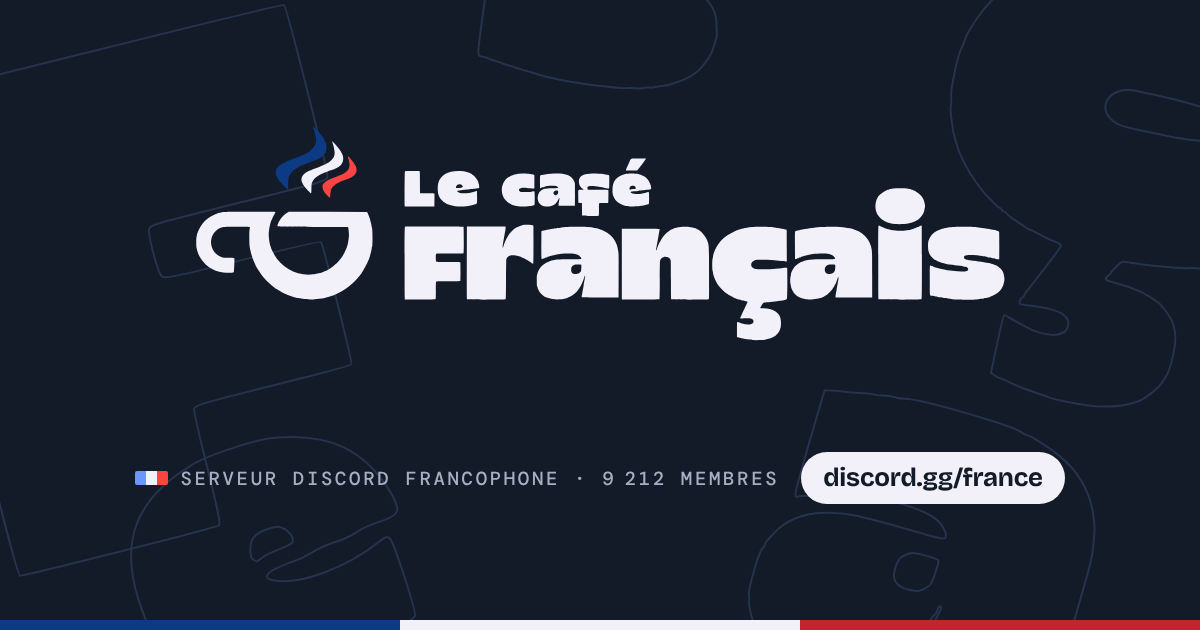
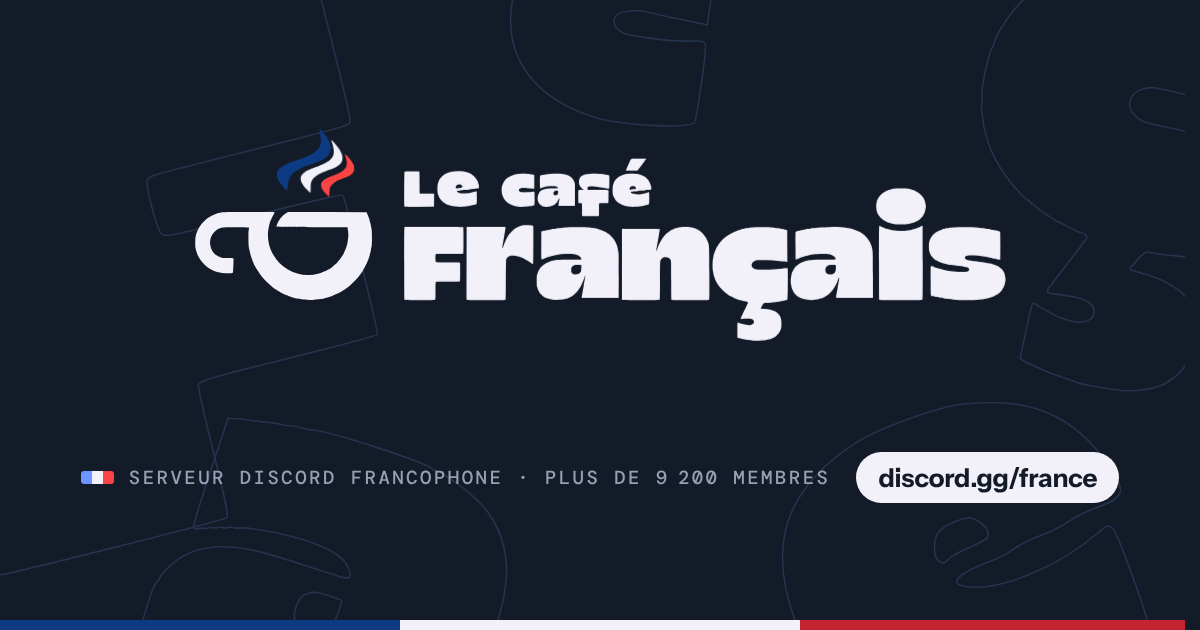
Nombre de membres à jour, sur la page et dans l'aperçu du lien
La page demande le nombre exact de membres à Discord à chaque visite.
Chaque jour, GitHub Actions relève le nombre et met à jour index.html,
la description du lien partagé et l'image apercu.png (arrondies à la
centaine : « plus de 9 200 membres »).

Claude-Session: https://claude.ai/code/session_01RCZVv2zyASMHv7btGDSPhF

diff --git a/outils/membres.js b/outils/membres.js
@@ -1,0 +1,136 @@
+#!/usr/bin/env node
+/* Met à jour le nombre de membres du serveur là où il est écrit en dur :
+   - index.html : le compteur de l'ouverture et la phrase de fin de page (nombre exact),
+     la description du lien partagé (arrondi à la centaine : « plus de 9 200 membres ») ;
+   - apercu.png : l'image affichée quand le lien du site est partagé (même arrondi).
+   Lancé chaque jour par GitHub Actions (.github/workflows/membres.yml). Sur la page, le nombre exact est
+   aussi demandé à Discord à chaque visite : les valeurs écrites ici servent quand Discord ne répond pas.
+
+   Usage : node outils/membres.js           relève le nombre sur Discord
+           node outils/membres.js 9251      utilise ce nombre
+           node outils/membres.js --image   régénère aussi l'image, même si l'arrondi n'a pas changé
+   L'image est dessinée par Chrome (Playwright, ou playwright-core avec Google Chrome installé). */
+const fs = require('fs');
+const path = require('path');
+
+const RACINE = path.join(__dirname, '..');
+const PAGE = path.join(RACINE, 'index.html');
+const IMAGE = path.join(RACINE, 'apercu.png');
+const INVITATION = 'france';
+
+const grouper = (n, sep) => String(n).replace(/\B(?=(\d{3})+(?!\d))/g, sep);
+const arrondi = (n) => Math.floor(n / 100) * 100;
+const attendre = (ms) => new Promise((r) => setTimeout(r, ms));
+
+async function relever() {
+  const url = `https://discord.com/api/v10/invites/${INVITATION}?with_counts=true`;
+  for (let essai = 0; essai < 3; essai++) {
+    const res = await fetch(url, { headers: { 'User-Agent': 'cafe-fr.com (membres)', Accept: 'application/json' } });
+    if (res.status === 429) { // trop d'appels : Discord dit combien de temps attendre
+      const corps = await res.json().catch(() => ({}));
+      await attendre(Math.min(Number(corps.retry_after) || 2, 30) * 1000 + 500);
+      continue;
+    }
+    if (!res.ok) throw new Error(`Discord a répondu ${res.status}`);
+    const n = Number((await res.json()).approximate_member_count);
+    if (!Number.isInteger(n) || n < 1000) throw new Error(`nombre de membres invalide : ${n}`);
+    return n;
+  }
+  throw new Error('Discord limite les appels, réessayer plus tard');
+}
+
+// Remplace un passage qui doit apparaître exactement une fois dans la page
+function remplacer(html, motif, rempl, nom) {
+  const trouves = html.match(new RegExp(motif.source, 'g')) || [];
+  if (trouves.length !== 1) throw new Error(`${nom} : ${trouves.length} occurrence(s) dans index.html au lieu d'une`);
+  return html.replace(motif, rempl);
+}
+
+function majPage(n) {
+  const avant = fs.readFileSync(PAGE, 'utf8');
+  const ancien = avant.match(/Rejoins plus de ([\d\u00a0]+) membres/);
+  let html = remplacer(avant, /(id="nb-membres" data-valeur=")\d+(">)[\d&#;]+(<\/b>)/, `$1${n}$2${grouper(n, '&#8239;')}$3`, 'compteur de l\'ouverture');
+  html = remplacer(html, /(<span id="nb-final">)[\d&#;]+(<\/span>)/, `$1${grouper(n, '&#8239;')}$2`, 'phrase de fin');
+  html = remplacer(html, /Rejoins [^"]*? membres sur discord\.gg\/france\./, `Rejoins plus de ${grouper(arrondi(n), '\u00a0')} membres sur discord.gg/france.`, 'description du lien partagé');
+  if (html !== avant) fs.writeFileSync(PAGE, html);
+  return { modifiee: html !== avant, arrondiChange: !ancien || Number(ancien[1].replace(/\D/g, '')) !== arrondi(n) };
+}
+
+async function navigateur() {
+  let pw;
+  try { pw = require('playwright'); } catch (e) { pw = require('playwright-core'); }
+  if (process.env.CHROME) return pw.chromium.launch({ executablePath: process.env.CHROME });
+  try { return await pw.chromium.launch(); } catch (e) { return pw.chromium.launch({ channel: 'chrome' }); }
+}
+
+// Dessine apercu.png (1200 × 630) avec le logo de la page, les lettres du fond et le nombre de membres
+async function dessinerImage(n) {
+  const nav = await navigateur();
+  try {
+    const page = await nav.newPage({ viewport: { width: 1200, height: 630 } });
+    // Seules les polices sont chargées : sans GSAP, le logo reste immobile
+    await page.route(/^https?:\/\/(?!fonts\.(googleapis|gstatic)\.com)/, (r) => r.abort());
+    await page.goto('file://' + PAGE);
+    await page.evaluate(async (texte) => {
+      const lettre = (id, cx, cy, h, r) => {
+        const el = document.getElementById(id);
+        const b = el.getBBox();
+        const s = h / b.height;
+        return `<path d="${el.getAttribute('d')}" transform="translate(${cx} ${cy}) rotate(${r}) scale(${s}) translate(${-(b.x + b.width / 2)} ${-(b.y + b.height / 2)})"/>`;
+      };
+      const scene = document.createElement('div');
+      scene.id = 'apercu';
+      scene.innerHTML = `
+        <svg class="ap-fond" viewBox="0 0 1200 630">${[
+          lettre('p-F', 150, 250, 560, -14), lettre('p-cc', 1110, 170, 430, 12), lettre('p-a2', 330, 590, 300, 18),
+          lettre('p-e2', 960, 560, 300, -20), lettre('p-c', 610, 20, 200, 8),
+        ].join('')}</svg>
+        <div class="ap-logo"></div>
+        <div class="ap-bas"><p><span class="ap-drapeau"><i></i><i></i><i></i></span>${texte}</p><span class="ap-lien">discord.gg/france</span></div>
+        <div class="ap-barre"><i></i><i></i><i></i></div>`;
+      scene.querySelector('.ap-logo').append(document.getElementById('logo'));
+      const style = document.createElement('style');
+      style.textContent = `
+        html, body { overflow: hidden !important; }
+        body > *:not(#apercu) { visibility: hidden !important; }
+        #apercu { position: fixed; inset: 0; width: 1200px; height: 630px; z-index: 2147483647; background: #131a28; overflow: hidden; }
+        .ap-fond { position: absolute; inset: 0; width: 100%; height: 100%; fill: none; stroke: #26334d; stroke-width: 1.6px; }
+        .ap-fond path { vector-effect: non-scaling-stroke; }
+        .ap-logo { position: absolute; left: 0; right: 0; top: var(--haut, 118px); display: flex; justify-content: center; }
+        .ap-logo .logo { width: var(--largeur, 822px); transform: translateX(var(--dx, 0px)); }
+        .ap-bas { position: absolute; left: 0; right: 0; top: 452px; display: flex; align-items: center; justify-content: center; gap: 26px; }
+        .ap-bas p { margin: 0; display: flex; align-items: center; gap: 15px; font: 500 19px/1 "DM Mono", monospace; letter-spacing: .13em; text-transform: uppercase; color: #969fb3; }
+        .ap-drapeau { display: flex; width: 33px; height: 13px; border-radius: 3px; overflow: hidden; }
+        .ap-drapeau i { flex: 1; } .ap-drapeau i:nth-child(1) { background: #6b95ff; } .ap-drapeau i:nth-child(2) { background: #f2f1f9; } .ap-drapeau i:nth-child(3) { background: #f94443; }
+        .ap-lien { display: flex; align-items: center; height: 51px; padding: 0 22px; border-radius: 26px; background: #f2f1f9; color: #131a28; font: 700 26px/1 "Instrument Sans", sans-serif; letter-spacing: -.01em; }
+        .ap-barre { position: absolute; left: 0; right: 0; bottom: 0; height: 10px; display: flex; }
+        .ap-barre i { flex: 1; } .ap-barre i:nth-child(1) { background: #0c3b83; } .ap-barre i:nth-child(2) { background: #f2f1f9; } .ap-barre i:nth-child(3) { background: #c3242f; }`;
+      document.head.append(style);
+      document.body.append(scene);
+      await document.fonts.ready;
+    }, `Serveur Discord francophone · plus de ${grouper(arrondi(n), '\u202f')} membres`);
+    await page.waitForTimeout(300);
+    await page.screenshot({ path: IMAGE });
+  } finally {
+    await nav.close();
+  }
+}
+
+(async () => {
+  const arg = process.argv.slice(2);
+  const donne = arg.find((a) => /^\d+$/.test(a));
+  let n;
+  try {
+    n = donne ? Number(donne) : await relever();
+  } catch (e) {
+    // Discord injoignable : on garde les valeurs actuelles, sans faire échouer la tâche quotidienne
+    console.log(`Nombre de membres non relevé (${e.message}) : rien n'est modifié.`);
+    return;
+  }
+  const { modifiee, arrondiChange } = majPage(n);
+  console.log(`${n} membres (aperçu : plus de ${arrondi(n)}). index.html ${modifiee ? 'mis à jour' : 'déjà à jour'}.`);
+  if (arrondiChange || arg.includes('--image')) {
+    await dessinerImage(n);
+    console.log('apercu.png régénérée.');
+  }
+})().catch((e) => { console.error(e.message); process.exit(1); });

diff --git a/index.html b/index.html
@@ -9,7 +9,7 @@
 <meta property="og:site_name" content="Le Café Français">
 <meta property="og:locale" content="fr_FR">
 <meta property="og:title" content="Le Café Français">
-<meta property="og:description" content="Serveur Discord communautaire francophone : discussions, jeux, salons vocaux et événements. Rejoins les 9 212 membres sur discord.gg/france.">
+<meta property="og:description" content="Serveur Discord communautaire francophone : discussions, jeux, salons vocaux et événements. Rejoins plus de 9 200 membres sur discord.gg/france.">
 <meta property="og:url" content="https://cafe-fr.com/">
 <meta property="og:image" content="https://cafe-fr.com/apercu.png">
 <meta property="og:image:width" content="1200">
@@ -1200,7 +1200,7 @@ main, .pied { position: relative; z-index: 1; }
       <a class="btn btn-ligne" href="#carte">Faire le tour</a>
     </div>
     <ul class="chiffres hero-revele">
-      <li><b id="nb-membres" data-valeur="9212">9&#8239;212</b><span>membres</span></li>
+      <li><b id="nb-membres" data-valeur="9251">9&#8239;251</b><span>membres</span></li>
       <li class="vivant" id="stat-ligne" hidden><b><span class="pastille" aria-hidden="true"></span><span id="en-ligne">0</span></b><span>en ligne</span></li>
       <li><b><span class="seulement-halloween">30</span><span class="seulement-normal">28</span></b><span>salons</span></li>
       <li><b>6</b><span>salons vocaux</span></li>
@@ -1661,7 +1661,7 @@ main, .pied { position: relative; z-index: 1; }
         <g class="v v3"><g class="ondule"><use href="#p-v3"/></g></g>
       </svg>
       <h2 class="h-final" id="t-final">Ton café est servi.</h2>
-      <p class="chapo"><span id="nb-final">9&#8239;212</span> membres t'attendent déjà au comptoir.</p>
+      <p class="chapo"><span id="nb-final">9&#8239;251</span> membres t'attendent déjà au comptoir.</p>
       <a class="btn btn-plein aimant" href="https://discord.gg/france" target="_blank" rel="noopener">Rejoindre Le Café Français<svg aria-hidden="true"><use href="#i-fleche"/></svg></a>
       <div class="invitation">
         <code id="lien-invitation">discord.gg/france</code>
@@ -1710,6 +1710,9 @@ main, .pied { position: relative; z-index: 1; }
   const anime = !reduit && !!g && !!ST;
   const nf = new Intl.NumberFormat('fr-FR');
   const WIDGET = 'https://discord.com/api/guilds/829698572927762432/widget.json';
+  const INVITATION = 'https://discord.com/api/v10/invites/france?with_counts=true';
+  // Nombre de membres : celui écrit dans la page (mis à jour chaque jour), remplacé par le nombre exact si Discord répond
+  let nbMembres = Number($('#nb-membres').dataset.valeur) || 0;
   let lancerIntro = () => {};
 
   /* Largeur utile, sans la barre de défilement */
@@ -1718,11 +1721,11 @@ main, .pied { position: relative; z-index: 1; }
   addEventListener('resize', majVw);
 
   /* ---------- Compteurs ---------- */
-  function compter(el, cible, duree = 1.6) {
+  function compter(el, cible, duree = 1.6, depuis = 0) {
     if (!el) return;
     if (!anime) { el.textContent = nf.format(cible); return; }
-    const o = { v: 0 };
-    g.to(o, { v: cible, duration: duree, ease: 'power3.out', onUpdate: () => { el.textContent = nf.format(Math.round(o.v)); } });
+    const o = { v: depuis };
+    el.compte = g.to(o, { v: cible, duration: duree, ease: 'power3.out', onUpdate: () => { el.textContent = nf.format(Math.round(o.v)); } });
   }
 
   /* ---------- Halloween : jours restants et quêtes ---------- */
@@ -2566,6 +2569,23 @@ main, .pied { position: relative; z-index: 1; }
       if (r.ok) appliquerWidget(await r.json());
     } catch (e) { /* hors ligne ou bloqué : on garde les valeurs fixes */ }
   })();
+  // Nombre exact de membres, demandé à Discord par l'invitation publique
+  (async () => {
+    try {
+      const ctrl = new AbortController();
+      setTimeout(() => ctrl.abort(), 7000);
+      const r = await fetch(INVITATION, { signal: ctrl.signal });
+      if (!r.ok) return;
+      const n = Number((await r.json()).approximate_member_count);
+      if (!Number.isInteger(n) || n < 1000 || n === nbMembres) return;
+      nbMembres = n;
+      const el = $('#nb-membres');
+      el.dataset.valeur = n;
+      if (el.compte && el.compte.isActive()) { el.compte.kill(); compter(el, n, .8, Number(el.textContent.replace(/\D/g, '')) || 0); }
+      else el.textContent = nf.format(n);
+      $('#nb-final').textContent = nf.format(n);
+    } catch (e) { /* hors ligne ou bloqué : on garde le nombre écrit dans la page */ }
+  })();
 
   /* ---------- Liens internes : défilement doux ---------- */
   document.addEventListener('click', (e) => {
@@ -2725,7 +2745,7 @@ main, .pied { position: relative; z-index: 1; }
   /* ---------- Sans GSAP ou en mouvement réduit : tout reste visible ---------- */
   if (!anime) {
     racine.classList.remove('intro');
-    compter($('#nb-membres'), 9212);
+    compter($('#nb-membres'), nbMembres);
     return;
   }
 
@@ -2745,8 +2765,8 @@ main, .pied { position: relative; z-index: 1; }
     .from('.hero .surtitre', { y: -16, opacity: 0, duration: .7 }, .2)
     .from(['.hero .accroche', '.hero .actions', '.hero .chiffres li'], { y: 26, opacity: 0, duration: .8, stagger: .08 }, .95);
   racine.classList.remove('intro');
-  lancerIntro = () => { intro.restart(); compter($('#nb-membres'), 9212, 2); };
-  if (!porteFermee) compter($('#nb-membres'), 9212, 2);
+  lancerIntro = () => { intro.restart(); compter($('#nb-membres'), nbMembres, 2); };
+  if (!porteFermee) compter($('#nb-membres'), nbMembres, 2);
 
   /* Le logo s'éloigne quand on quitte l'ouverture */
   g.to('.logo-scene', { yPercent: 22, scale: .88, ease: 'none', scrollTrigger: { trigger: '.hero', start: 'top top', end: 'bottom top', scrub: true } });

diff --git a/README.md b/README.md
@@ -34,6 +34,21 @@ https://discord.com/api/guilds/829698572927762432/widget.json
 
 Une fois le site en ligne, elle affiche le nombre de membres connectés, l'occupation de chaque salon vocal et les avatars des personnes en ligne. Le widget doit rester activé dans les paramètres du serveur (Paramètres du serveur → Widget). Si le widget ne répond pas, la page garde les valeurs écrites dans le HTML.
 
+Le nombre total de membres est demandé à Discord à chaque visite, par l'invitation publique :
+
+```
+https://discord.com/api/v10/invites/france?with_counts=true
+```
+
+## Nombre de membres à jour
+
+Chaque jour vers 6 h, GitHub Actions (`.github/workflows/membres.yml`) lance `outils/membres.js`, qui relève le nombre de membres sur Discord et met à jour :
+
+- dans `index.html`, le compteur de l'ouverture et la phrase de fin de page (nombre exact). Ils servent quand Discord ne répond pas au visiteur ;
+- la description du lien partagé et l'image `apercu.png`, arrondies à la centaine (« plus de 9 200 membres ») : elles restent justes même quand Discord garde un ancien aperçu en mémoire. L'image n'est redessinée que quand la centaine change.
+
+Pour lancer la mise à jour tout de suite : onglet **Actions** du dépôt → **Nombre de membres** → **Run workflow**. En local : `node outils/membres.js` (ou `node outils/membres.js 9300` pour un nombre précis, `--image` pour redessiner l'image), avec Playwright installé.
+
 ## Classement du mini-jeu
 
 Les scores sont enregistrés dans **Firebase Firestore** (Google, gratuit), projet `cafe-fr`. Chaque joueur reçoit une **identité anonyme** (Firebase Authentication), gardée sur son appareil : son score est rangé sous cette identité et personne d'autre ne peut le modifier.
@@ -155,7 +170,7 @@ Pour voir une version sans rien changer, ajoute `#saison-halloween` ou `#saison-
 
 ## Aperçu des liens partagés
 
-Quand le lien du site est posté sur Discord ou ailleurs, l'image `apercu.png` s'affiche avec le titre et la description. Les balises `og:` et `canonical` en haut de `index.html` utilisent l'adresse `https://cafe-fr.com/`. Si le domaine change, remplace-la à ces endroits et dans le fichier `CNAME`.
+Quand le lien du site est posté sur Discord ou ailleurs, l'image `apercu.png` s'affiche avec le titre et la description. L'image est dessinée par `outils/membres.js` (logo de la page, lettres du fond, nombre de membres) : pour changer sa mise en page, modifie ce script puis lance `node outils/membres.js --image`. Les balises `og:` et `canonical` en haut de `index.html` utilisent l'adresse `https://cafe-fr.com/`. Si le domaine change, remplace-la à ces endroits et dans le fichier `CNAME`.
 
 ## Mise en ligne : GitHub Pages et le domaine cafe-fr.com
 
@@ -181,7 +196,7 @@ Le domaine est chez Hostinger, le site est servi par GitHub Pages.
 
 Tout se modifie dans `index.html` :
 
-- **Nombre de membres** : cherche `9212` (il apparaît dans l'ouverture, dans `data-valeur` et dans le compteur JavaScript) et `9&#8239;212` (le texte affiché).
+- **Nombre de membres** : mis à jour tout seul chaque jour (voir « Nombre de membres à jour »), rien à modifier à la main.
 - **Salons et emojis** : chaque salon est une ligne `<li class="salon">`. Les emojis actuels sont ceux de la saison d'Halloween.
 - **Salons vocaux** : chaque ligne `<li class="vocal">` porte le nom exact du salon dans `data-vocal` (il sert à retrouver le salon dans le widget) et sa limite de places dans `data-max`.
 - **Équipe** : chaque profil est une ligne `<li class="profil">` dans la liste du badge (`<ul class="profils">`). Pour ajouter quelqu'un, copie une ligne et change le nom, le pseudo et l'image (`src`, une adresse d'image ou une image intégrée).
